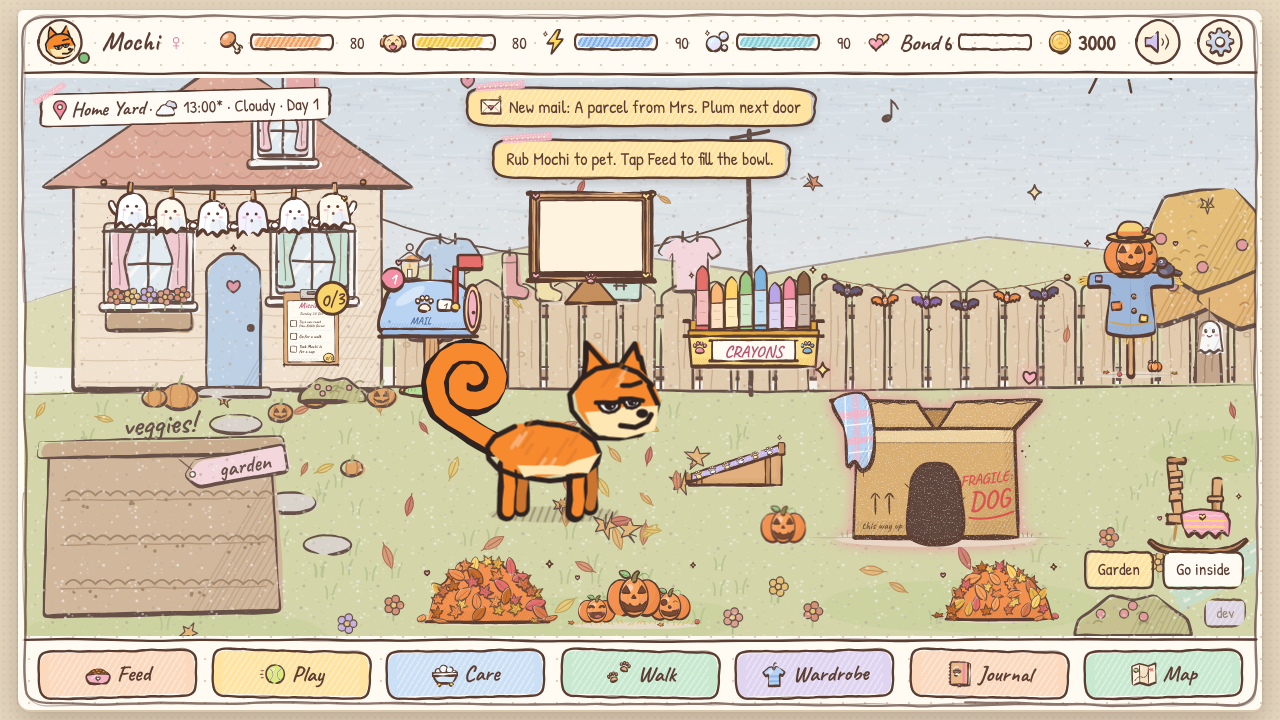
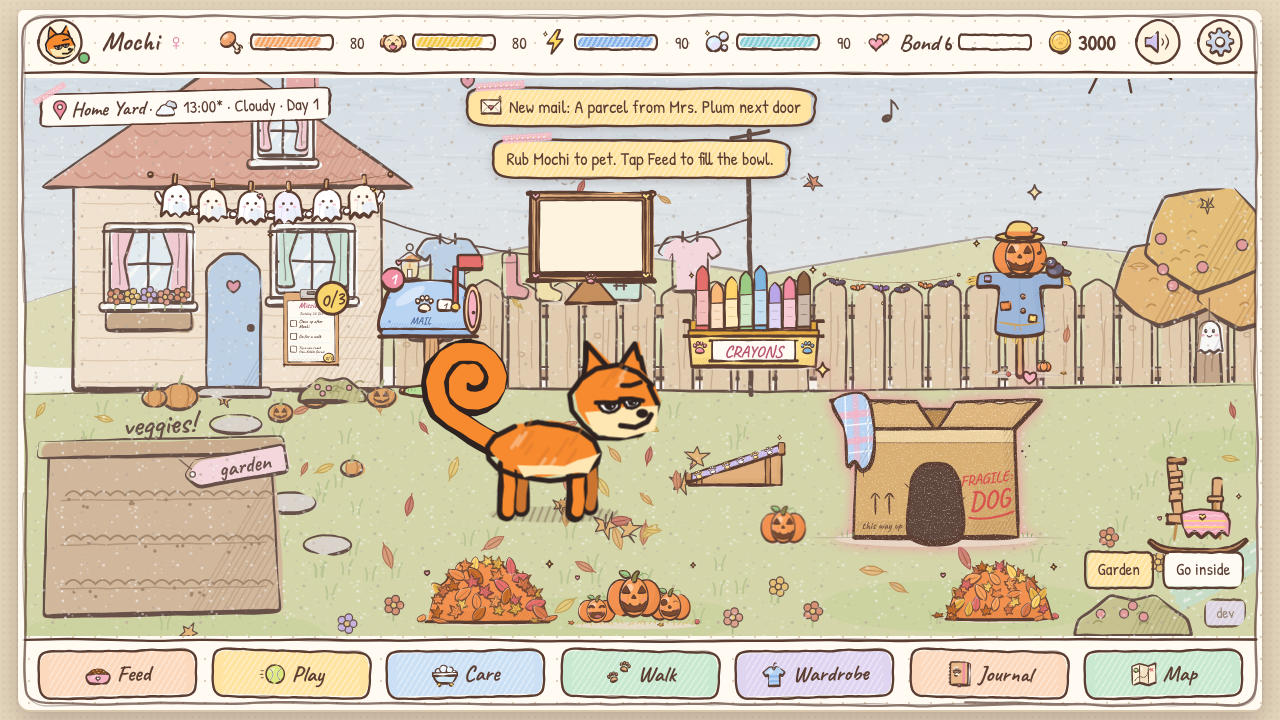
HALLOWEEN phone review: 2026 chip pinned to the tray card corner, scarecrow clear of pack spot 2, garland inside the phone crop, shorter bunting; phone suite measures the chips and four dogs
Claude-Session: https://claude.ai/code/session_018MinoDb6fMr3P7gb1Woa4D

Changed region(s): [[0.625, 0.3056, 0.9375, 0.55], [0.0625, 0.2444, 0.3125, 0.3361], [0.2188, 0.4278, 0.25, 0.4583]]

diff --git a/game/test_phone_v26_halloween.js b/game/test_phone_v26_halloween.js
@@ -106,6 +106,18 @@ async function suite(t, dev) {
   ok(!!(await t.S()).decor['Ghost Garland'], 'bought the Ghost Garland by touch');
   await closeSheet(t);
 
+  t.sec(dev + ': the 2026 chip in the Feed and Play tray cards sits on the card corner, never in the clamped text');
+  await ev(() => { const S = window.__paw.S; S.inv.food['Sweet Potato Bones'] = 2; S.inv.food['Frozen Yoghurt Ghosts'] = 2; ['Squeaky Pumpkin', 'Trick-or-Treat Bucket'].forEach((n) => { if (!S.inv.toys.includes(n)) S.inv.toys.push(n); }); S.sleeping = false; S.place = 'yard'; window.__paw.go('yard'); });
+  await t.untilMode('yard'); await t.calm(); await t.lu();
+  // w: nothing but the count chip (.cnt, right:-3px, on every counted card since v2.5) pokes out of the card
+  const chips = async (act) => { await p.locator(`#bar [data-act=${act}]`).first().tap(); await t.waitPop(true); await settled(t, '#dock .tray');
+    const r = await ev(() => [...document.querySelectorAll('#dock .tray .card')].filter((c) => c.querySelector('.hw-tag')).map((c) => { c.scrollIntoView({ block: 'nearest', inline: 'nearest' }); const a = c.getBoundingClientRect(), g = c.querySelector('.hw-tag').getBoundingClientRect(), fs = parseFloat(getComputedStyle(c.querySelector('.hw-tag')).fontSize); return { n: c.textContent.trim().slice(0, 22), ins: g.left >= a.left - 6 && g.right <= a.right + 1 && g.top >= a.top - 8 && g.bottom <= a.bottom, w: ![...c.querySelectorAll('*')].some((e) => !e.closest('.cnt') && e.getBoundingClientRect().right > a.right + 0.5), fs, h: g.height > 4 }; }));
+    await p.locator(`#bar [data-act=${act}]`).first().tap(); await t.waitPop(false); return r; };
+  for (const act of ['feed', 'play']) {
+    const r = await chips(act);
+    ok(r.length >= (act === 'feed' ? 3 : 0) && r.every((x) => x.ins && x.w && x.h && x.fs >= 15), `${act} tray: ${r.length} cards with the chip, each whole on the card corner, 15 px, nothing but the count chip wider than the card ${JSON.stringify(r.filter((x) => !(x.ins && x.w && x.h && x.fs >= 15)))}`);
+  }
+
   t.sec(dev + ': the four decorations in the yard');
   await ev((ns) => { const S = window.__paw.S; ns.forEach((n) => { S.decor[n] = S.decor[n] || { got: '2026-10-20', out: true }; }); S.sleeping = false; S.place = 'yard'; window.__paw.go('yard'); }, DECOR);
   await t.until((ns) => ns.every((n) => !!document.querySelector(`#decorG [data-decor="${n}"] > rect`)), DECOR, 8000); await t.calm(); await t.lu();
@@ -119,10 +131,20 @@ async function suite(t, dev) {
   const vis = y.d.filter((r) => r[0] >= y.view[0] - 1 && r[2] <= y.view[2] + 1);
   ok(vis.length >= 1, `${vis.length} of 4 decorations in the home crop (the rest pan into view)`); // the Jack-o-Lantern Trio sits in front of the dog, inside every phone crop
   await t.SH('yard_decor');
+  // four dogs: the pack stands at its yard spots, and no pack dog stands on a decoration's tap rect
+  await ev(() => { const P = window.__paw, S = P.S; while (S.dogs.length < 4) P.addDog({ key: ['corgi', 'golden', 'pug'][S.dogs.length - 1], sex: 'male', months: 20 }, ['Biscuit', 'Pal', 'Nugget'][S.dogs.length - 1]); S.sleeping = false; S.place = 'yard'; P.go('yard'); });
+  await t.untilMode('yard'); await t.calm(); await t.lu(); await t.freezeMotion(true); await settled(t, '#pack');
+  const pk = await ev((ns) => { const area = (a, b) => Math.max(0, Math.min(a.right, b.right) - Math.max(a.left, b.left)) * Math.max(0, Math.min(a.bottom, b.bottom) - Math.max(a.top, b.top)); const dogs = [...document.querySelectorAll('#pack [data-dog]')].map((g) => (g.querySelector('rect') || g).getBoundingClientRect()); return { n: dogs.length, ov: ns.map((n) => { const r = document.querySelector(`#decorG [data-decor="${n}"] > rect`).getBoundingClientRect(); return [n, Math.round(dogs.reduce((m, d) => Math.max(m, area(r, d)), 0))]; }) }; }, DECOR);
+  ok(pk.n === 3 && pk.ov.every(([, a]) => a === 0), `four dogs: no pack dog stands on a decoration tap rect ${JSON.stringify(pk.ov)}`);
   const tr = y.d[0], tc = [(tr[0] + Math.min(tr[2], y.iw)) / 2, (tr[1] + tr[3]) / 2];
   await p.touchscreen.tap(tc[0], tc[1]);
   ok(await t.until(() => !!document.querySelector('#modal:not([hidden]) .hm-decor-pop'), null, 4000), 'a tap on the Jack-o-Lantern Trio opens its card');
   await closeSheet(t);
+  if (dev === 'iPhone 13') { await ev(() => { const S = window.__paw.S; S.sleeping = false; S.place = 'yard'; window.__paw.go('yard'); }); await t.untilMode('yard'); await t.calm(); await t.lu(); // the narrowest phone the review measured
+    await p.setViewportSize({ width: 360, height: 740 }); await t.until(() => innerWidth === 360, null, 4000); await t.calm();
+    for (const act of ['feed', 'play']) { const r = await chips(act); ok(r.every((x) => x.ins && x.w && x.h && x.fs >= 15), `360x740 ${act} tray: the chips stay whole on the card corner (${r.length})`); }
+    await p.setViewportSize({ width: 390, height: 844 }); await t.until(() => innerWidth === 390, null, 4000); await t.calm();
+  }
   const errs = t.errors.filter((e) => !/ERR_CERT|Failed to load resource/.test(e));
   ok(errs.length === 0, 'no console errors ' + errs.slice(0, 3).join(' | '));
 }

diff --git a/game/src/03_yard.js b/game/src/03_yard.js
@@ -672,9 +672,9 @@ const HM_DECOR = {
   'Rocking Chair': { prop: 'rockingchair', at: [910, 452, 84, 84], vb: [160, 160], story: 'A dog-sized chair with a knitted blanket. Mum likes a rock here after a long day of puppies.' },
   // v2.6 Halloween 2026 pop-up decorations (bought, not rewards). `at` are starting spots, the HALLOWEEN lane tunes them
   'Jack-o-Lantern Trio': { prop: 'hwlanterns', at: [440, 528, 112, 67], vb: [200, 120], price: 120, fest: 'halloween', ed: 2026, v26: true, story: 'Three pumpkins, three faces, all of them smiling. They glow a little after dark.' },
-  'Paper Bat Bunting': { prop: 'hwbunting', at: [646, 304, 204, 54], vb: [300, 80], price: 90, fest: 'halloween', ed: 2026, v26: true, story: 'Paper bats on a string, cut a bit wonky. They flutter whenever a dog runs past.' },
-  'Friendly Scarecrow': { prop: 'hwscarecrow', at: [852, 262, 92, 130], vb: [140, 200], price: 140, fest: 'halloween', ed: 2026, v26: true, story: 'A pumpkin head and a big grin. The crows sit on his arms to chat.' },
-  'Ghost Garland': { prop: 'hwgarland', at: [62, 226, 216, 65], vb: [300, 90], price: 100, fest: 'halloween', ed: 2026, v26: true, story: 'Little cloth ghosts holding hands. They say boo very quietly.' }
+  'Paper Bat Bunting': { prop: 'hwbunting', at: [648, 304, 112, 30], vb: [300, 80], price: 90, fest: 'halloween', ed: 2026, v26: true, story: 'Paper bats on a string, cut a bit wonky. They flutter whenever a dog runs past.' },
+  'Friendly Scarecrow': { prop: 'hwscarecrow', at: [762, 262, 92, 130], vb: [140, 200], price: 140, fest: 'halloween', ed: 2026, v26: true, story: 'A pumpkin head and a big grin. The crows sit on his arms to chat.' },
+  'Ghost Garland': { prop: 'hwgarland', at: [100, 220, 200, 60], vb: [300, 90], price: 100, fest: 'halloween', ed: 2026, v26: true, story: 'Little cloth ghosts holding hands. They say boo very quietly.' }
 };
 const HM_PHOTO = [20, 15, 120, 84]; // the documented data-photo box inside the 160x140 frame
 function hmDecorFields() { if (S && (!S.decor || typeof S.decor !== 'object')) S.decor = {}; }

diff --git a/game/test_v26_halloween.js b/game/test_v26_halloween.js
@@ -107,7 +107,7 @@ require('./test_lib').run('v26_halloween', async (t) => {
   const dec = await ev(() => { const g = document.querySelector('#decorG [data-decor="Jack-o-Lantern Trio"]'), r = g && g.querySelector(':scope > rect'), d = document.getElementById('dogHit').getBoundingClientRect(), b = r && r.getBoundingClientRect(); return { g: !!g, ov: !!b && b.left < d.right && b.right > d.left && b.top < d.bottom && b.bottom > d.top, at: window.__paw.hw.spot().decor }; });
   ok(dec.g, 'the Jack-o-Lantern Trio is drawn in the yard (#decorG)');
   ok(!dec.ov, 'its tap rect is clear of #dogHit');
-  ok(JSON.stringify(dec.at) === JSON.stringify({ 'Jack-o-Lantern Trio': [440, 528, 112, 67], 'Paper Bat Bunting': [646, 304, 204, 54], 'Friendly Scarecrow': [852, 262, 92, 130], 'Ghost Garland': [62, 226, 216, 65] }), 'the four decoration spots ' + JSON.stringify(dec.at));
+  ok(JSON.stringify(dec.at) === JSON.stringify({ 'Jack-o-Lantern Trio': [440, 528, 112, 67], 'Paper Bat Bunting': [648, 304, 112, 30], 'Friendly Scarecrow': [762, 262, 92, 130], 'Ghost Garland': [100, 220, 200, 60] }), 'the four decoration spots ' + JSON.stringify(dec.at));
   await t.SH('03_yard_decor');
   await p().click('#decorG [data-decor="Jack-o-Lantern Trio"] > rect', { force: true });
   ok(await t.until(() => !!document.querySelector('#modal:not([hidden]) .hm-decor-pop'), null, 3000), 'a tap opens its decor card (Put away)');

diff --git a/game/css/30_halloween.css b/game/css/30_halloween.css
@@ -25,3 +25,6 @@ html[data-layout="phone"] .hw-ic{width:44px;height:44px}
 html[data-layout="phone"] .hw-sec h3{font-size:24px}
 html[data-layout="phone"] .panel.hw-pop .btn{min-height:44px}
 html[data-layout="phone"] .panel.hw-pop .hw-foot{font-size:15px}
+/* ---- phones: in the Feed / Play tray cards the tag sits on the card's top-left corner (like the count chip on the right), never in the 2-line clamped text ---- */
+html[data-layout="phone"] #dock .tray .card{position:relative}
+html[data-layout="phone"] #dock .tray .card .hw-tag{position:absolute;left:-3px;top:-6px;z-index:1;margin:0;font-size:15px;line-height:1.2;padding:0 6px 1px}
